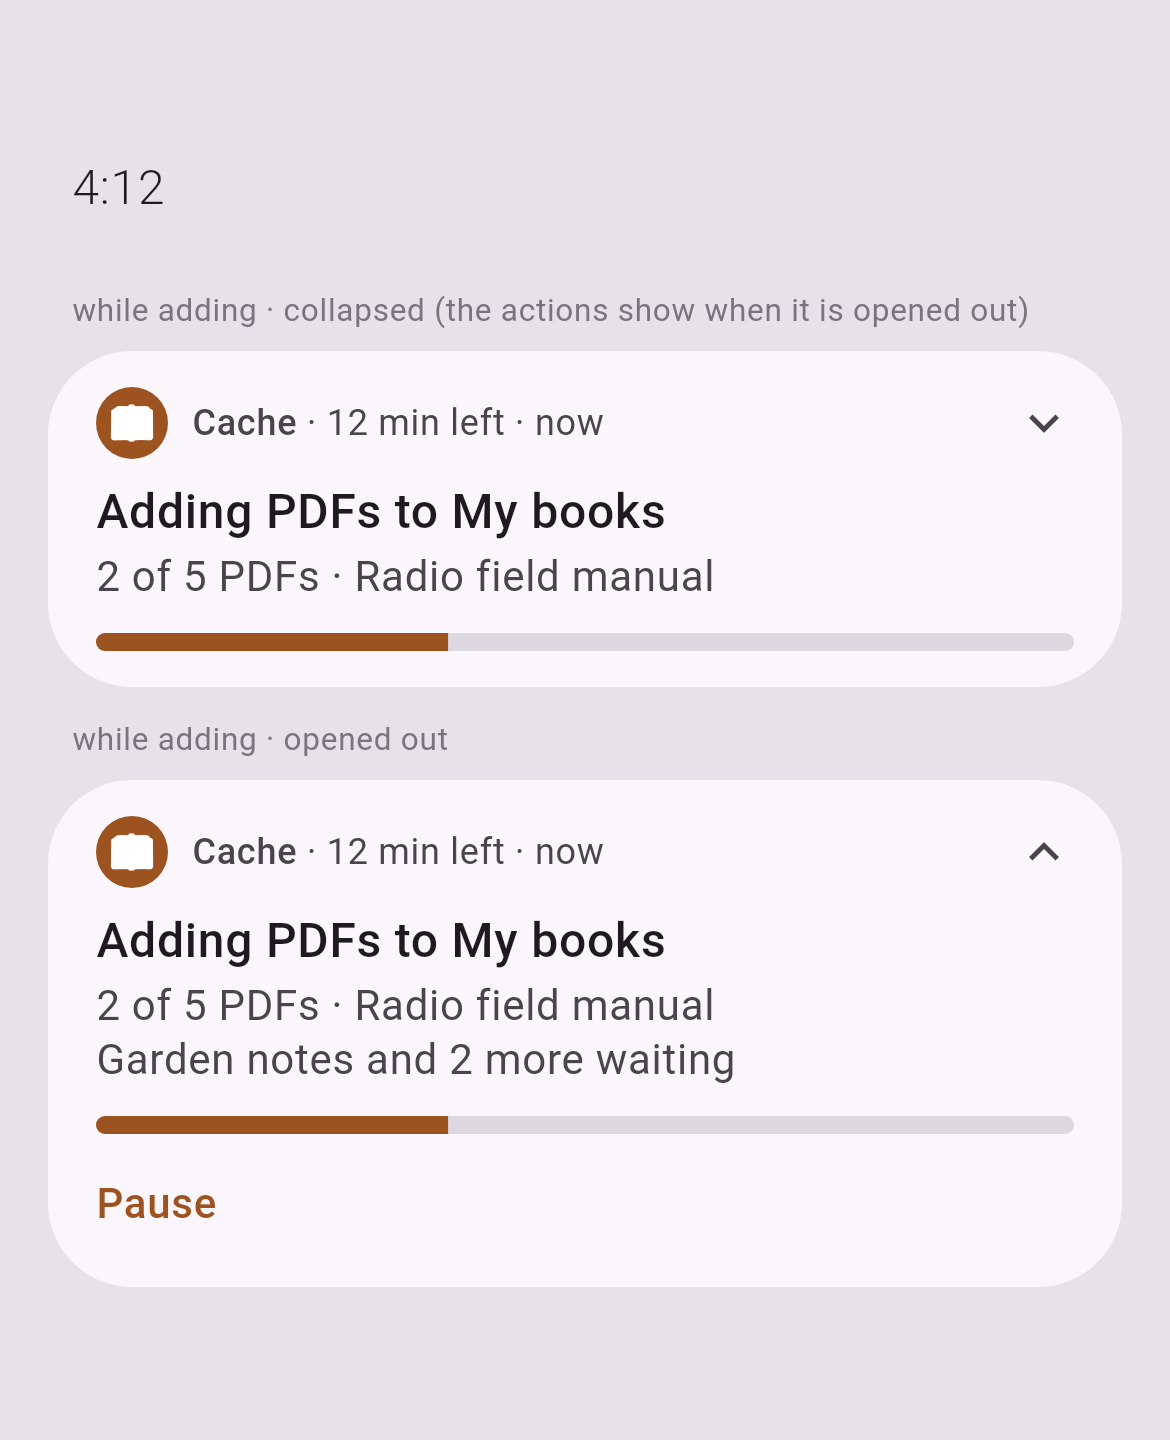
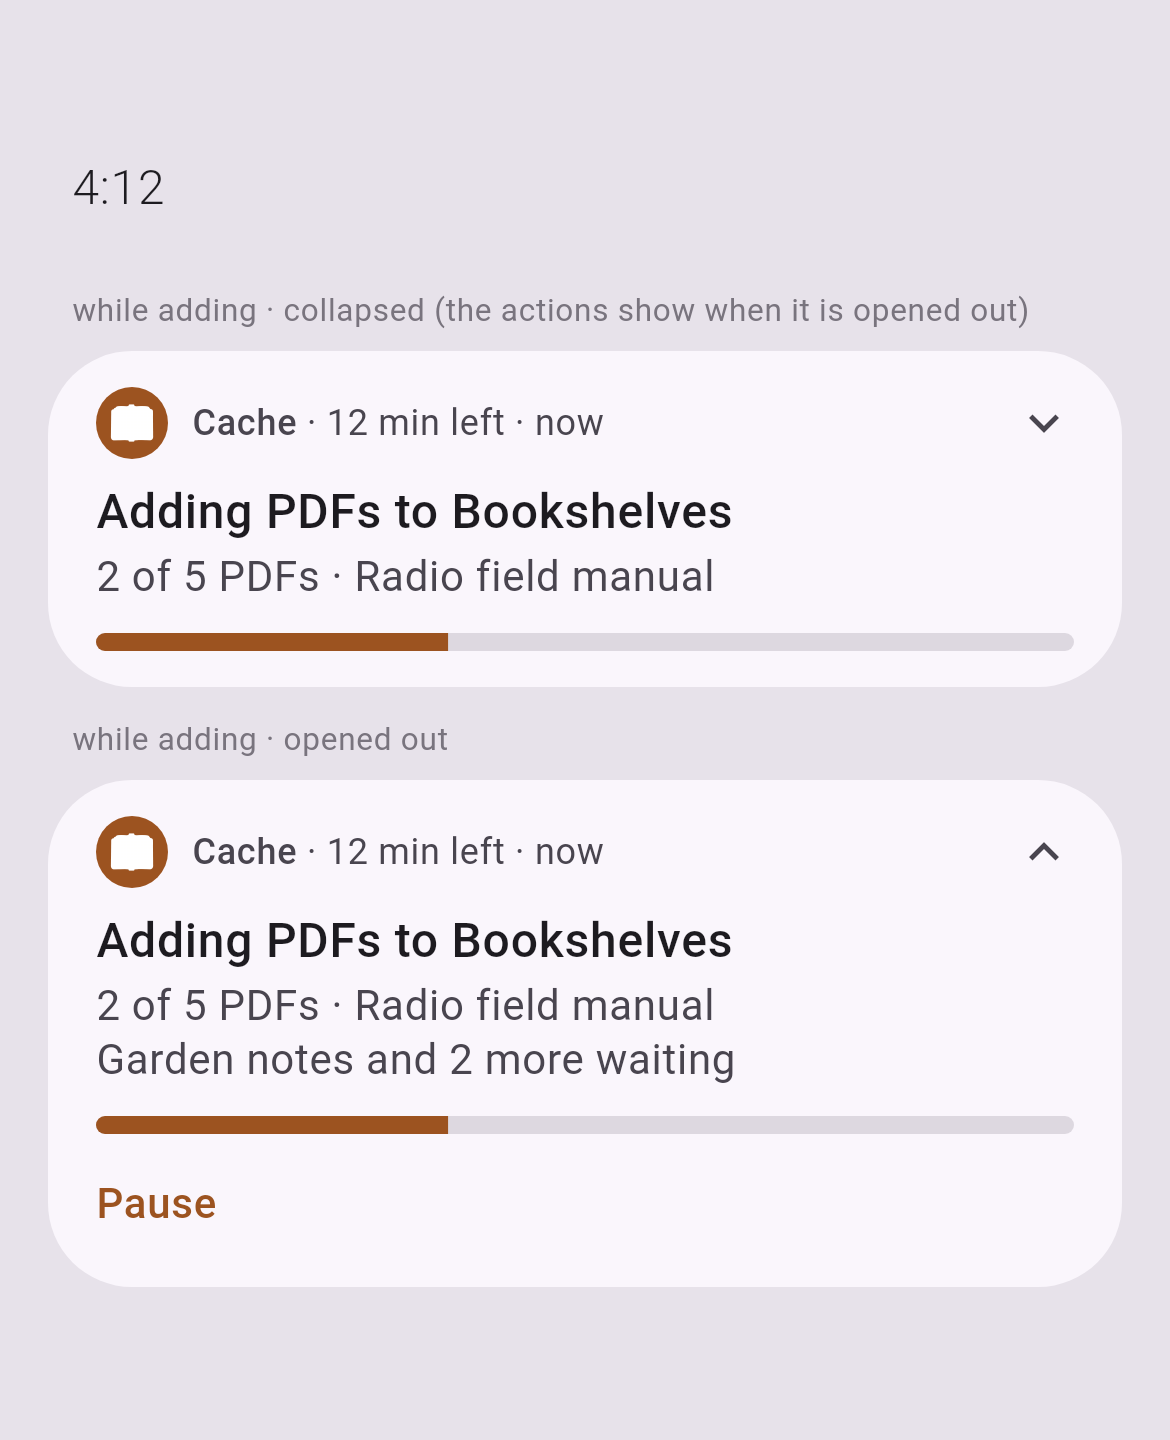
Design: the default own library shows as Bookshelves in the add notifications; a named library keeps its name
Claude-Session: https://claude.ai/code/session_01XZ3UGKZH88VsfKupggk5Lm

Changed region(s): [[0.4, 0.625, 0.6154, 0.6875], [0.3692, 0.3438, 0.6462, 0.375]]

diff --git a/app/test_shots/fgs_notification_renders_test.dart b/app/test_shots/fgs_notification_renders_test.dart
@@ -140,7 +140,7 @@ class _Page extends StatelessWidget {
 }
 
 const _adding = _Note(
-  title: 'Adding PDFs to My books',
+  title: 'Adding PDFs to Bookshelves',
   text: '2 of 5 PDFs · Radio field manual',
   subText: '12 min left',
   progress: 0.36,
@@ -156,8 +156,9 @@ final _addingOpen = _Note(
   actions: const ['Pause'],
 );
 
-const _added = _Note(title: 'Added 5 PDFs to My books', text: 'Adding to search index');
-const _addedSome = _Note(title: 'Added 4 of 5 PDFs to My books', text: '1 could not be added · tap to see');
+const _added = _Note(title: 'Added 5 PDFs to Bookshelves', text: 'Adding to search index');
+const _addedNamed = _Note(title: 'Added 3 PDFs to Field guides', text: 'Adding to search index');
+const _addedSome = _Note(title: 'Added 4 of 5 PDFs to Bookshelves', text: '1 could not be added · tap to see');
 const _failed = _Note(title: 'This PDF could not be added', text: 'Radio field manual · Nothing was added. Your PDF was not changed.');
 const _pausedYou = _Note(title: 'Paused · 2 of 5 PDFs', text: 'Paused by you', progress: 0.36, expanded: true, actions: ['Resume']);
 const _pausedBattery = _Note(title: 'Paused · 2 of 5 PDFs', text: 'Battery low (12%) · plug in to continue', progress: 0.36, expanded: true, actions: ['Resume anyway']);
@@ -189,7 +190,7 @@ void main() {
       await draw(tester, '1-adding', 480, [('while adding · collapsed (the actions show when it is opened out)', _adding), ('while adding · opened out', _addingOpen)]);
     });
     testWidgets('2 ended, $name', (tester) async {
-      await draw(tester, '2-ended', 520, [('finished', _added), ('finished, one could not be added', _addedSome), ('one PDF could not be added', _failed)]);
+      await draw(tester, '2-ended', 660, [('finished', _added), ('finished, a library the person named keeps its name', _addedNamed), ('finished, one could not be added', _addedSome), ('one PDF could not be added', _failed)]);
     });
     testWidgets('3 paused, $name', (tester) async {
       await draw(tester, '3-paused', 640, [('paused by you', _pausedYou), ('paused: battery low', _pausedBattery), ('paused: the time limit', _pausedLimit)]);
